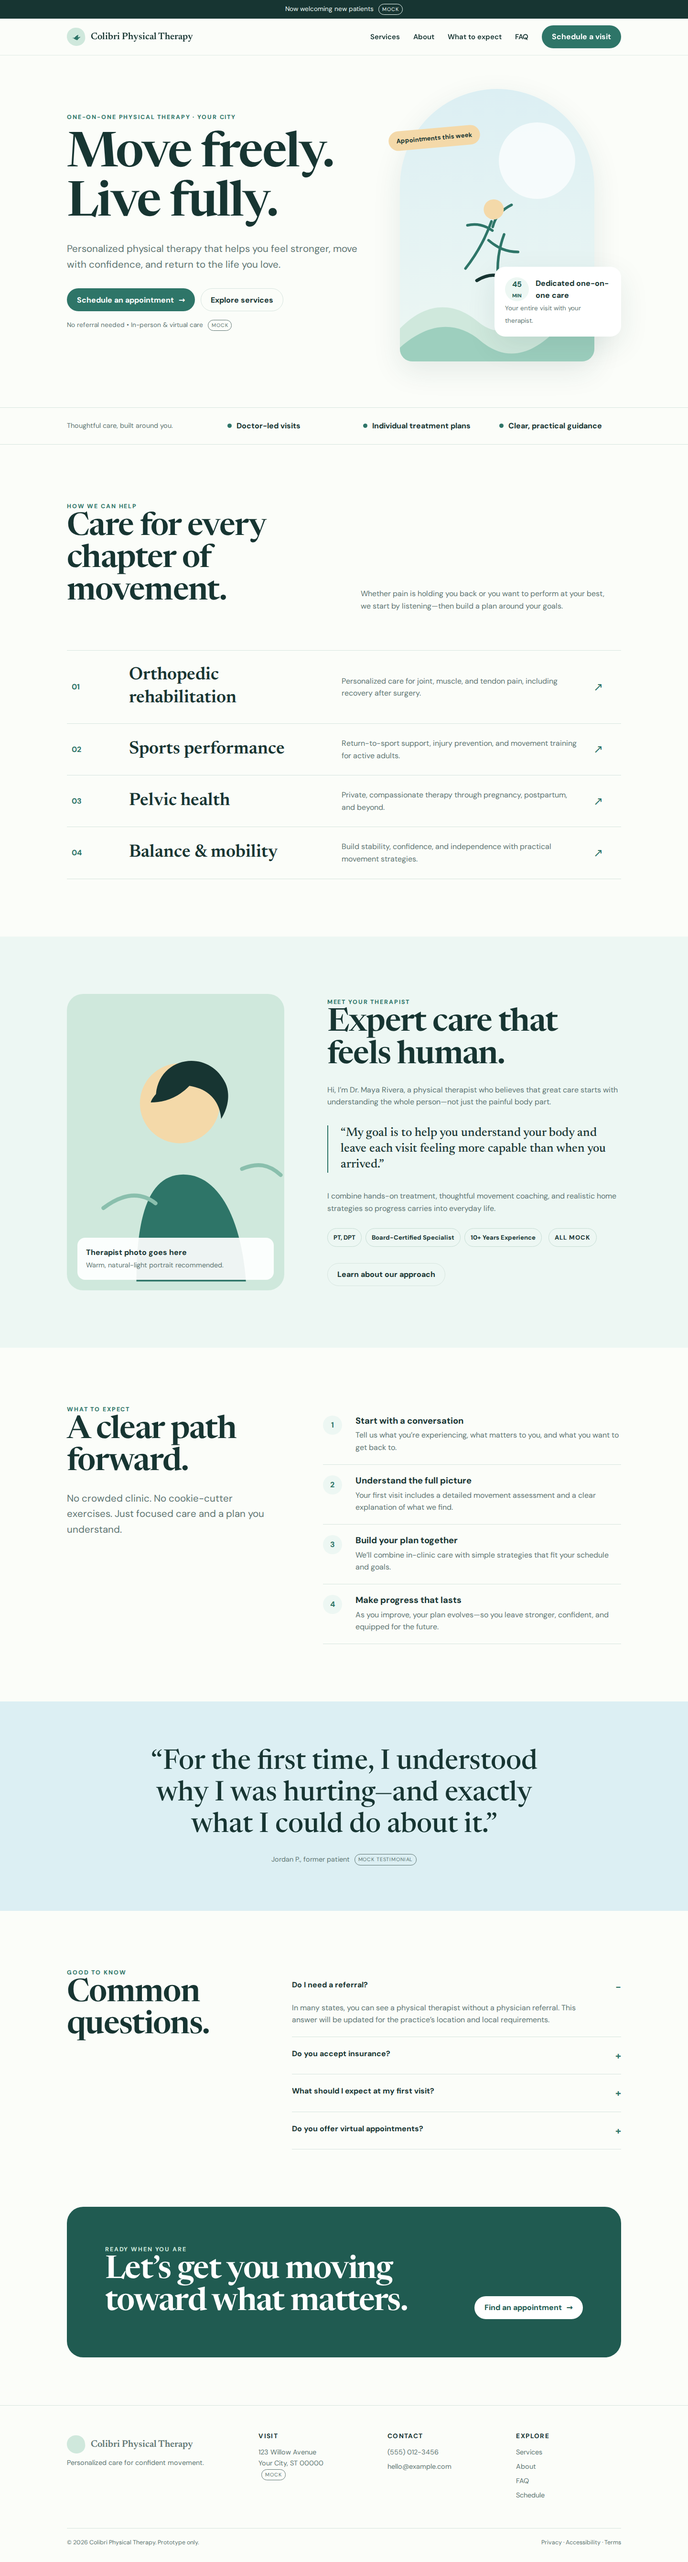
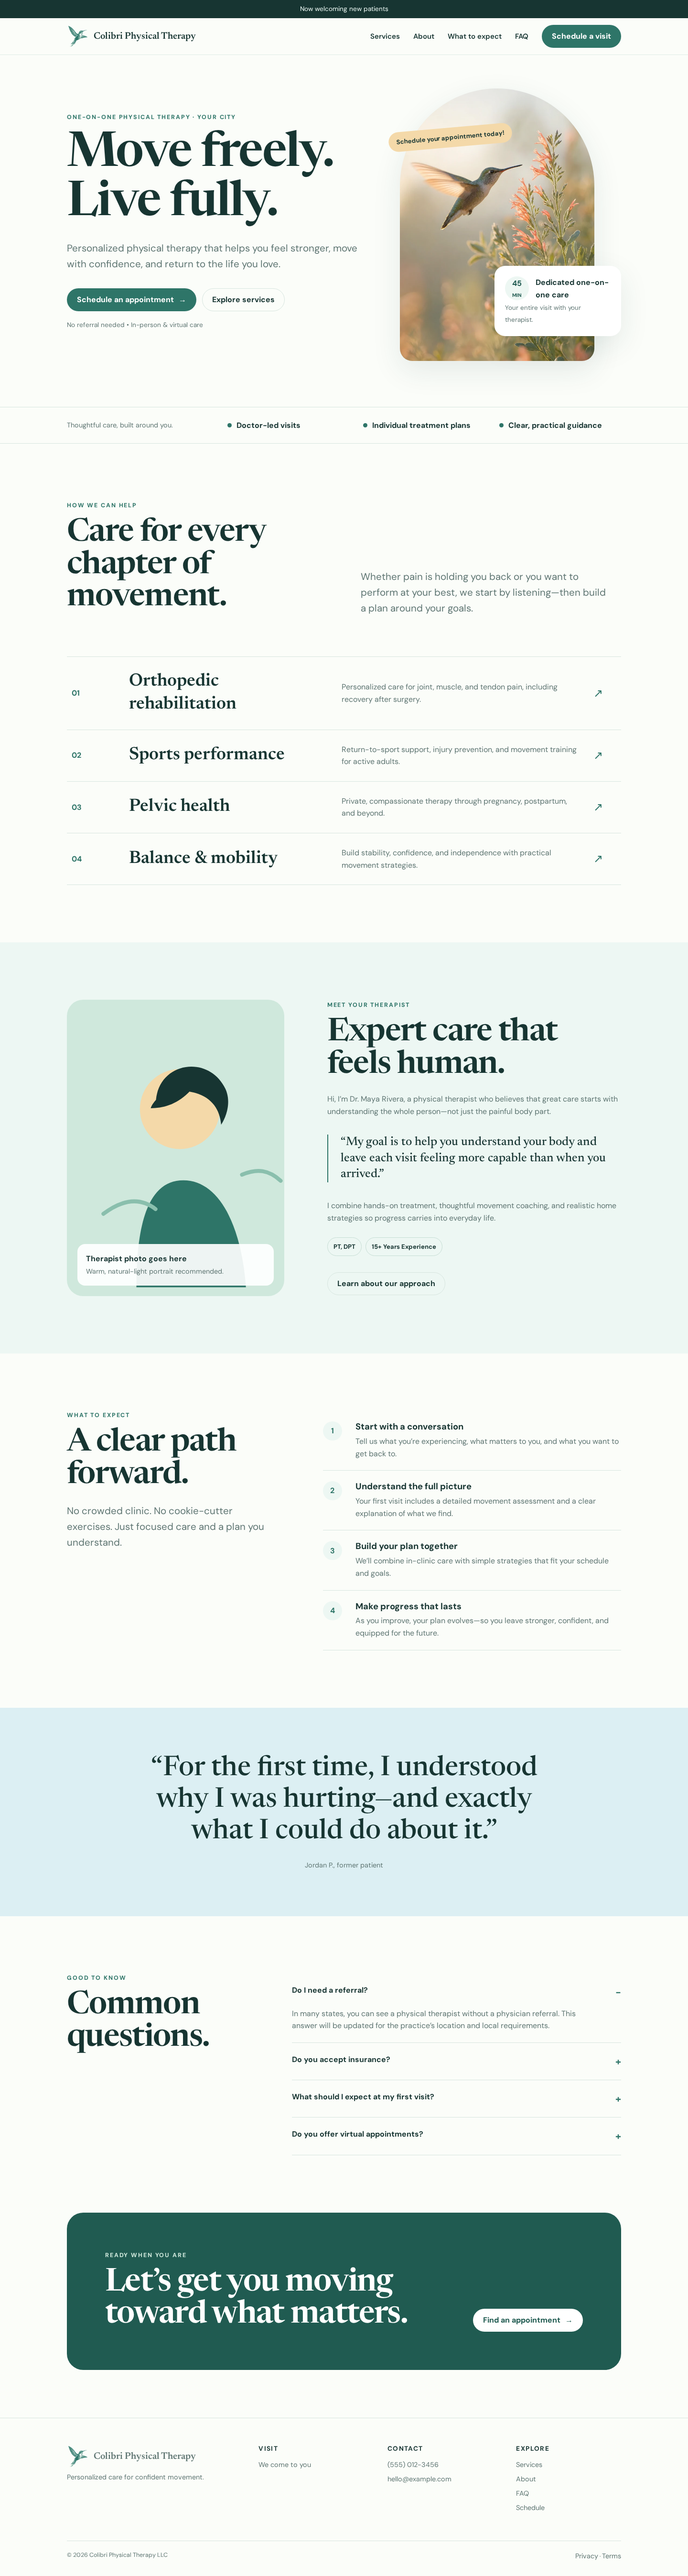
Refine site copy and layout and configure appointment booking

diff --git a/index.html b/index.html
@@ -39,7 +39,7 @@
             <button class="button primary schedule-open" type="button">Schedule an appointment <span aria-hidden="true">→</span></button>
             <a class="button secondary" href="#services">Explore services</a>
           </div>
-          <p class="microcopy">No referral needed <span aria-hidden="true">•</span> In-person & virtual care</p>
+          <p class="microcopy">Certain conditions may require a referral <span aria-hidden="true">•</span> In-person & virtual care</p>
         </div>
         <div class="hero-art">
           <div class="arch">
@@ -106,11 +106,11 @@
 
     <section class="process" id="process">
       <div class="wrap process-grid">
-        <div><div class="eyebrow">What to expect</div><h2>A clear path forward.</h2><p class="lead">No crowded clinic. No cookie-cutter exercises. Just focused care and a plan you understand.</p></div>
+        <div><div class="eyebrow">What to expect</div><h2>A clear path forward.</h2><p class="lead">No crowded clinic. Just focused, personalized care and a plan you understand.</p></div>
         <div class="steps">
           <div class="step"><div><h3>Start with a conversation</h3><p>Tell us what you’re experiencing, what matters to you, and what you want to get back to.</p></div></div>
           <div class="step"><div><h3>Understand the full picture</h3><p>Your first visit includes a detailed movement assessment and a clear explanation of what we find.</p></div></div>
-          <div class="step"><div><h3>Build your plan together</h3><p>We’ll combine in-clinic care with simple strategies that fit your schedule and goals.</p></div></div>
+          <div class="step"><div><h3>Build your plan together</h3><p>We’ll combine individual care with simple strategies that fit your schedule and goals.</p></div></div>
           <div class="step"><div><h3>Make progress that lasts</h3><p>As you improve, your plan evolves—so you leave stronger, confident, and equipped for the future.</p></div></div>
         </div>
       </div>

diff --git a/styles.css b/styles.css
@@ -80,8 +80,8 @@ nav { height: 76px; display: flex; align-items: center; justify-content: space-b
 .dot { width: 9px; height: 9px; border-radius: 50%; background: var(--leaf); }
 
 .services { padding: 120px 0; }
-.section-heading { display: grid; grid-template-columns: 1fr 1fr; gap: 70px; align-items: end; margin-bottom: 64px; }
-.section-heading p { color: var(--muted); max-width: 520px; }
+.section-heading { display: grid; grid-template-columns: 1fr; gap: 12px; margin-bottom: 64px; }
+.section-heading p { color: var(--muted); max-width: 650px; }
 .service-list { border-top: 1px solid var(--line); }
 .service { display: grid; grid-template-columns: 90px 1fr 1.2fr 48px; gap: 30px; align-items: center; padding: 28px 10px; border-bottom: 1px solid var(--line); text-decoration: none; transition: padding .2s, background .2s; }
 .service:hover { padding-inline: 22px; background: white; }

diff --git a/scheduling-config.js b/scheduling-config.js
@@ -2,5 +2,5 @@
 // Example: for https://cal.com/colibri-pt/initial-evaluation, use
 // calLink: 'colibri-pt/initial-evaluation'
 window.COLIBRI_SCHEDULING = window.COLIBRI_SCHEDULING || {
-  calLink: ''
+  calLink: 'colibri-physical-therapy/initial-visit'
 };
